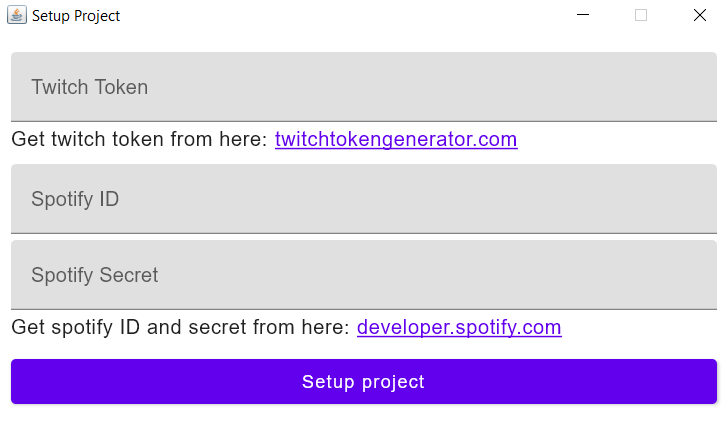
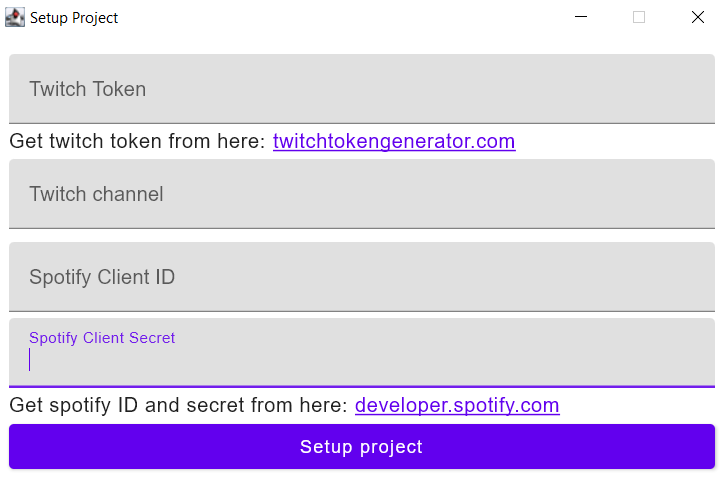
Update Readme

diff --git a/README.md b/README.md
@@ -18,10 +18,10 @@ Table of Contents:
 6. [Additional Information](#additional-information)
 
 ## Current Versions
-* Spotify-Bot.jar: v1.2.6 [Download from Release v1.2.6](https://github.com/alexshadowolex/Spotify-Bot/releases/download/v1.2.6/Spotify.Bot-windows-x64-1.2.6.jar)
-* SetupToken.jar: v3 [Download from Release v1.2.1](https://github.com/alexshadowolex/Spotify-Bot/releases/download/v1.2.1/SetupToken_v3.jar)
-* SetupProject.jar: v1 [Download from Release v1.2.1](https://github.com/alexshadowolex/Spotify-Bot/releases/download/v1.2.1/SetupProject_v1.jar)
-* UpdateProperties.jar: v1.2.5 [Download from Release v1.2.5](https://github.com/alexshadowolex/Spotify-Bot/releases/download/v1.2.5/UpdateProperties_1-2-5.jar)
+* Spotify-Bot.jar: v2.0.0 [Download from Release v2.0.0](https://github.com/alexshadowolex/Spotify-Bot/releases/download/v2.0.0/Spotify.Bot-windows-x64-2.0.0.jar)
+* SetupToken.jar: v4 [Download from Release v2.0.0](https://github.com/alexshadowolex/Spotify-Bot/releases/download/v2.0.0/SetupToken_v4.jar)
+* SetupProject.jar: v2 [Download from Release v2.0.0](https://github.com/alexshadowolex/Spotify-Bot/releases/download/v2.0.0/SetupProject_v2.jar)
+* UpdateProperties.jar: v2.0.0 [Download from Release v2.0.0](https://github.com/alexshadowolex/Spotify-Bot/releases/download/v2.0.0/UpdateProperties_2-0-0.jar)
 
 ## How to set up
 
@@ -42,7 +42,7 @@ Download all files and put them on the same level, like this:
     -> UpdateProperties.jar
     -> Spotify-Bot.jar
 ````
-During the setup process, you will need to execute those jars in a specific order. Execute them from that location.
+During the setup process, you will need to execute those jars in a specific order. Execute them from the same location.
 <br><br>
 #### Set Up Project Structure
 First we need to set up the project structure. Execute the newest version of the file SetupProject.jar.<br>
@@ -51,6 +51,8 @@ You will see this window:
 ![setupProject.png](images/setupProject.png)
 <br>
 To get the Twitch Token, login into the twitch account and go in another tab to [Token Generator](https://twitchtokengenerator.com/) and click on "bot chat token", then copy the "access token" into the field.
+<br><br>
+Into the field "Twitch Channel", type the twitch channel's name the bot is supposed to be used on. Note that the bot should moderator on that channel.
 <br><br>
 Both the Spotify ID and Spotify Secret need to get copied from the [Spotify Developer Dashboard](https://developer.spotify.com/dashboard). Login with your spotify credentials and do following steps to get them:<br>
 1.) Click on "Create App"<br>
@@ -66,6 +68,7 @@ Now the data-folder should exist with following structure:
 ````
 -> data
     -> properties
+        -> botConfig.properties
         -> spotifyConfig.properties
         -> twitchBotconfig.properties
     -> tokens
@@ -78,12 +81,12 @@ Now we need to fill the files with the needed properties. For that, execute the 
 After doing that, a cmd will open and log the added properties:<br>
 ![updateProperties.png](images/updateProperties.png)
 <br>
-The properties-files in folder data\properties now have the needed entries. They only have default values at the moment.<br>
-You will get a detailed explanation of the properties later. For now, we only need to change 1 property:<br>
-Go into the file data\properties\twitchBotConfig.properties. There you have the entry "channel_name" -> remove everything after the "=" and add your twitch-channel name.
+The properties-files in folder data\properties now have the needed entries. They only have default values at the moment.
+<br>
+You can change the properties' values later in the UI. If you are interested in what property has which functionality, you can check the detailed explanation of the properties under [Contents of data-files explained](#contents-of-data-files-explained).<br>
 <br><br>
 #### Set Up Spotify Token
-Now we need to set up the spotify token. Execute the latest version of SetupToken.jar. Two things will happen: A Browser Tab opens and following window will be visible:<br>
+Now we need to set up the Spotify token. Execute the latest version of SetupToken.jar. Two things will happen: A Browser Tab opens and following window will be visible:<br>
 ![setupToken.png](images/setupToken.png)
 <br>
 Go into the browser tab. It has the website of the redirect URI open, example.com. In the URL, you will see following text:<br>
@@ -98,7 +101,7 @@ With this, the setup is done. You can execute the Spotify-Bot.jar with the curre
 On start up, the bot will display a message in chat to confirm start up. <br>
 
 ## How to Update
-If an update is released, you can find it under [Releases](https://github.com/alexshadowolex/spotify-bot/releases/latest). In this release, the latest files are found.
+If an update is released, you can find it under [Releases](https://github.com/alexshadowolex/spotify-bot/releases). In every release you can find a changelog for big changes and some attached files.
 <br>
 If the release includes a file "UpdateProperties_<version>.jar" it means that new properties have been added during the release. Download this file and execute it first so all needed properties are there. The cmd will inform you, which properties in which files are new.
 <br>
@@ -107,55 +110,51 @@ If the release includes new versions of the other script files (SetupProject, Se
 The file, that will always be included, is the new Bot version. Download it and swap out the old version with the new one.
 
 ## Current functionalities
-* Song Request -> Can be toggled off (is_song_request_enabled_by_default, switch in UI). Either with redeem or chat command.<br>
+* Song Request -> Can be toggled off (switch in UI under "General Settings"). Either with redeem or chat command.<br>
   Command names: "songrequest", "sr"<br>
   Takes a spotify-link or a text and then adds the result to the queue.<br><br>
-  You can set the maximum length of song duration in spotifyConfig.properties (maximum_length_minutes_song_request).<br><br>
-  You can block songs by adding their direct link (share link) to a property (blocked_song_links) in spotifyConfig.properties.<br><br>
-  You can block artists by adding their name to a property (blocked_song_artists) in spotifyConfig.properties.
-* Song Name Getter -> Can be toggled off (is_spotify_song_name_getter_enabled_by_default, switch in UI). Gets the current song name, artists and album image and writes it into different files:
-  * data\displayFiles\currentSong.txt -> Song Name + "by" + Artists + 10 spaces (for moving text display)
+  You can set the maximum length of song duration in the UI under Spotify Settings.<br><br>
+  You can block songs by adding their direct link (share link) to the list "Blocked Song Links" in the UI under Spotify Settings.<br><br>
+  You can block artists by adding their name to the list Blocked Song Artists in the UI under Spotify Settings.
+* Song Name Getter -> Can be toggled off (switch in UI under "General Settings"). Gets the current song name, artists and album image and writes it into different files:
+  * data\displayFiles\currentSong.txt -> Song Name + "by" + Artists + 10 spaces (thought for moving text display)
   * data\displayFiles\currentSongName.txt -> Song Name
   * data\displayFiles\currentSongArtists.txt -> Song Artists
   * data\displayFiles\currentAlbumImage.jpg -> Current song album's image
   <br><br>
   The different files are thought so every user can use the parts they want to use.
   <br>
-  There is a functionality to empty those files on pause (is_empty_song_display_files_on_pause_enabled_by_default, switch in UI).
+  There is a functionality to empty those files on pause (Empty Song Display Files On Pause switch in UI under "General Settings").
   <br>
-  This will only happen, if the function is active and the bot has been started.
-* Update Checker -> Can be toggled off (show_new_version_available_window_on_start_up). Checks for new versions on GitHub and if there is one, a window will appear.
-* Song Info Command -> Can be toggled off (is_song_info_command_enabled_by_default, switch in UI).<br>
+  This functionality will only happen, if the function is active and the bot has been started.
+* Update Checker -> Can be toggled off (switch in UI under "General Settings"). Checks for new versions on GitHub and if there is one, a window will appear.
+* Song Info Command -> Can be toggled off (switch in UI under "General Settings").<br>
   Command names: "songinfo", "si"<br>
   Command to display the current song in twitch chat together with a spotify link.
-* Add Song Command -> Can be toggled off (is_add_song_command_enabled_by_default, switch in UI).<br>
+* Add Song Command -> Can be toggled off (switch in UI under "General Settings").<br>
   Command names: "addsong", "as", "add"<br>
-  Command to add the current song to a certain playlist. This playlist is identified by an ID set in spotifyConfig.properties with the parameter playlist_id_for_add_song_command. <br>
+  Command to add the current song to a certain playlist. This playlist is identified by an ID set in the UI under "Spotify Settings" with the field Playlist ID For Add Song Command. <br>
   To obtain this ID, simply extract it from the share-link: <br>
-  E.g. the ID in this share link: https://open.spotify.com/playlist/idinsidethislink?si=abc1234569ada is "idinsidethislink", the random characters between "playlist/" and "?si". Just crop it out and paste it into the properties-file.<br>
+  E.g. the ID in this share link: https://open.spotify.com/playlist/idinsidethislink?si=abc1234569ada is "idinsidethislink", the random characters between "playlist/" and "?si". Just crop it out and paste it into the fitting field.<br>
   This functionality can be restricted to be used only by certain user groups:
   * BROADCASTER: Only the broadcaster
   * MODERATOR: Owner and Moderators
-  * CUSTOM: Custom group of users, specified per username in property custom_group_user_names_add_song_command<br>
-  
-  This security setting can be done in the UI and in the properties files. Note that the value is case-sensitive.
-* Skip Song Command -> Can be toggled off (is_skip_song_command_enabled_by_default, switch in UI).<br>
+  * CUSTOM: Custom group of users, specified per username in list Custom Group Usernames For Add Song Command under General Settings.<br>
+* Skip Song Command -> Can be toggled off (switch in UI under "General Settings").<br>
   Command names: "skipsong", "skip", "next", "ss"<br>
   Command to skip the current song.<br>
   This functionality can be restricted to be used only by certain user groups:
     * BROADCASTER: Only the broadcaster
     * MODERATOR: Owner and Moderators
-    * CUSTOM: Custom group of users, specified per username in property custom_group_user_names_skip_song_command<br>
-* Remove Song From Queue Command -> Can be toggled off (is_remove_song_from_queue_command_enabled_by_default, switch in UI).<br>
+    * CUSTOM: Custom group of users, specified per username in list Custom Group Usernames For Skip Song Command under General Settings.<br>
+* Remove Song From Queue Command -> Can be toggled off (switch in UI under "General Settings").<br>
   Command names: "removesongfromqueue", "rsfq", "remove", "removesong", "rs"<br>
   Command to remove a song from the queue.<br>
   To use this command, type (or rather copy and paste) the song name string that the bot responds with after a song request (or when you use the song info command) after the command. E.g. ""Ghost" by Confetti"<br>
   This functionality can be restricted to be used only by certain user groups:
   * BROADCASTER: Only the broadcaster
   * MODERATOR: Owner and Moderators
-  * CUSTOM: Custom group of users, specified per username in property custom_group_user_names_remove_song_from_queue_command<br>
-
-  This security setting can be done in the UI and in the properties files. Note that the value is case-sensitive.
+  * CUSTOM: Custom group of users, specified per username in list Custom Group Usernames Remove Song From Queue Command under General Settings.<br>
 
 ## Contents of data-files explained
 The files consist of following content:
@@ -168,59 +167,54 @@ data\tokens\spotifyClientSecret.txt: only the spotify client secret from the app
 ````
 data\properties\twitchBotConfig.properties:
     ->channel=<Twitch channel Name>
-    ->command_prefix=<prefix for command usage>
-    ->default_command_cool_down=<cool down in seconds for commands>
-    ->default_user_cool_down=<cool down in seconds for users per command>
-    ->song_request_redeem_id=<the ID of the song request redeem>
-    ->song_request_emotes=<Twitch emotes that will be used after confirmation of an added song, seperated by ",">
-    ->is_song_request_command_enabled_by_default=<true or false. If this is false, the redeem will be enabled on app start instead>
-    ->blacklisted_users=<list of Twitch names/IDs of users that can't use the redeem/command, seperated by ",">
-    ->blacklist_emote=<Twitch emote that will be displayed after the message towards a blacklisted user>
-    ->is_spotify_song_name_getter_enabled_by_default=<true or false. If this is true, the name getter functionality is enabled on start up>
-    ->show_new_version_available_window_on_start_up=<true or false. If this is true, the bot checks on start up for a new version on GitHub and if there is one, it will open a window>
-    ->is_song_request_enabled_by_default=<true or false. If this is true, the song request functionality is enabled on start up>
-    ->is_song_info_command_enabled_by_default=<true or false. If this is true, the song info command is enabled on start up>
-    ->is_empty_song_display_files_on_pause_enabled_by_default=<true or false. If this is true, the song display files emptying on pause functionality is enabled on start up>
-    ->is_add_song_command_enabled_by_default=<true or false. If this is true, the add song command is enabled on start up>
-    ->is_skip_song_command_enabled_by_default=<true or false. If this is true, the skip song command is enabled on start up>
-    ->is_remove_song_from_queue_command_enabled_by_default=<true or false. If this is true, the remove song from queue command is enabled on start up>
+    ->commandPrefix=<prefix for command usage>
+    ->defaultCommandCoolDownSeconds=<cool down in seconds for commands>
+    ->defaultUserCoolDownSeconds=<cool down in seconds for users per command>
+    ->songRequestRedeemId=<the ID of the song request redeem>
+    ->songRequestEmotes=<Twitch emotes that will be used after confirmation of an added song, seperated by ",">
+    ->isSongRequestCommandEnabled=<true or false. If this is false, the redeem will be enabled on app start instead>
+    ->blacklistedUsers=<list of Twitch names/IDs of users that can't use the redeem/command, seperated by ",">
+    ->blacklistMessage=<Message will be displayed after a blacklisted user tried using a command/redeem>
+    ->isSpotifySongNameGetterEnabled=<true or false. If this is true, the name getter functionality is enabled on start up>
+    ->isNewVersionCheckEnabled=<true or false. If this is true, the bot checks on start up for a new version on GitHub and if there is one, it will open a window>
+    ->isSongRequestEnabled=<true or false. If this is true, the song request functionality is enabled on start up>
+    ->isSongInfoCommandEnabled=<true or false. If this is true, the song info command is enabled on start up>
+    ->isEmptySongDisplayFilesOnPauseEnabled=<true or false. If this is true, the song display files emptying on pause functionality is enabled on start up>
+    ->isAddSongCommandEnabled=<true or false. If this is true, the add song command is enabled on start up>
+    ->isSkipSongCommandEnabled=<true or false. If this is true, the skip song command is enabled on start up>
+    ->isRemoveSongFromQueueCommandEnabled=<true or false. If this is true, the remove song from queue command is enabled on start up>
 ````
 ````
 data\properties\spotifyConfig.properties:
-    ->spotify_client_id=<client ID from spotify app>
-    ->playlist_id_for_add_song_command=<playlist ID for add song command. Check the command description for how to obtain the ID>
-    ->add_song_command_security_level_on_start_up=<security level that decides, who can use the add song command. Possible values: BROADCASTER, MODERATOR, CUSTOM>
-    ->maximum_length_minutes_song_request=<Maximum song length for songrequests. This value is interpreted as Minutes (you can also use decimal numbers). If you don't want a maximum lenght limit, just leave this property empty.>
-    ->blocked_song_links=<Spotify direct links of songs that are blocked and will not be added to the queue, seperated by ",">
-    ->blocked_song_artists=<Names of artists that are blocked and their songs will not be added to the queue, seperated by ",">
-    ->skip_song_command_security_level_on_start_up=<security level that decides, who can use the skip song command. Possible values: BROADCASTER, MODERATOR, CUSTOM>
-    ->custom_group_user_names_add_song_command=<custom group of users for the add song command, when "CUSTOM" is selected. List of usernames, seperated by ",">
-    ->custom_group_user_names_skip_song_command=<custom group of users for the skip song command, when "CUSTOM" is selected. List of usernames, seperated by ",">
-    ->remove_song_from_queue_command_security_level_on_start_up=<security level that decides, who can use the remove song from queue command. Possible values: BROADCASTER, MODERATOR, CUSTOM>
-    ->custom_group_user_names_remove_song_from_queue_command=<custom group of users for the remove song from queue command, when "CUSTOM" is selected. List of usernames, seperated by ",">
+    ->spotifyClientId=<client ID from spotify app>
+    ->playlistIdForAddSongCommand=<playlist ID for add song command. Check the command description for how to obtain the ID>
+    ->addSongCommandSecurityLevel=<security level that decides, who can use the add song command. Possible values: BROADCASTER, MODERATOR, CUSTOM>
+    ->maximumLengthSongRequestMinutes=<Maximum song length for songrequests. This value is interpreted as Minutes (you can also use decimal numbers). If you don't want a maximum lenght limit, just leave this property empty.>
+    ->blockedSongLinks=<Spotify direct links of songs that are blocked and will not be added to the queue, seperated by ",">
+    ->blockedSongArtists=<Names of artists that are blocked and their songs will not be added to the queue, seperated by ",">
+    ->skipSongCommandSecurityLevel=<security level that decides, who can use the skip song command. Possible values: BROADCASTER, MODERATOR, CUSTOM>
+    ->customGroupUserNamesAddSongCommand=<custom group of users for the add song command, when "CUSTOM" is selected. List of usernames, seperated by ",">
+    ->customGroupUserNamesSkipSongCommand=<custom group of users for the skip song command, when "CUSTOM" is selected. List of usernames, seperated by ",">
+    ->removeSongFromQueueCommandSecurityLevel=<security level that decides, who can use the remove song from queue command. Possible values: BROADCASTER, MODERATOR, CUSTOM>
+    ->customGroupUserNamesRemoveSongFromQueueCommand=<custom group of users for the remove song from queue command, when "CUSTOM" is selected. List of usernames, seperated by ",">
 ````
-Fill out all the properties in twitchBotConfig.properties and spotifyConfig.properties with data that fits.<br>
-You can leave empty following properties: 
-* twitchBotConfig.properties:
-   * blacklisted_users
-   * song_request_redeem_id (if you are not going to use it)
-* spotifyConfig.properties:
-   * maximum_length_minutes_song_request
-   * blocked_song_links
-   * blocked_song_artists
-   * custom_group_user_names_add_song_command
-   * custom_group_user_names_skip_song_command
-   * custom_group_user_names_remove_song_from_queue_command.<br>
-If you want to leave them empty, you still have to include them in the file. An empty property looks like this "blacklisted_users=".
 <br>
+Following properties are not changeable in the UI:
+
+* spotifyClientId in spotifyConfig.properties
+* channel in twitchBotConfig.properties
+
+If you need to change them you need to do that directly inside the properties files and restart the bot.
+<br><br>
 If you don't have the redeem ID, you have 2 possible solutions:<br>
-1.) Use the redeem's name instead (on the property song_request_redeem_id). Start the bot and use the redeem once. Then go into the latest log-file and check for a warning that says you used the name and should use the ID instead. Copy and Paste it and done.<br>
-2.) Go to https://www.instafluff.tv/TwitchCustomRewardID/?channel=<channel_name> (swap out <channel_name> with your channel). Then use the redeem on your channel, the site will show you the redeem ID.
+1.) Use the redeem's name instead (on the property songRequestRedeemId). Start the bot and use the redeem once. Then go into the latest log-file and check for a warning that says you used the name and should use the ID instead. Copy and Paste it and done.<br>
+2.) Go to https://www.instafluff.tv/TwitchCustomRewardID/?channel=channel_name (swap out channel_name with your channel). Then use the redeem on your channel, the site will show you the redeem ID.
 
 
 ## Additional Information
 * Use any compiled binary (.jar-files) at your own risk. They could be doing anything without you knowing it. Either you trust me and my builds or not. I will take no responsibility for anything.
-* You can change the properties' values at any time, but they will only be applied after the next start up.
+* If you change the properties' values directly in the properties files while the bot is running, they will not be applied until next start up and might even be overwritten.
+* It is not recommended to overwrite properties directly in the properties files since almost all of them can be changed in the UI. But feel free to go wild! 
 * Make sure to check on releases, if there are newer version of the project-setup- or setup-token-jar, if needed.
 * If an error occurred (a window with an error message appeared), read the error message. The most common mistake is a property missing or having invalid data. A property missing can be identified like this: <br>
   ![exampleMissingProperty.png](images/exampleMissingProperty.png)
